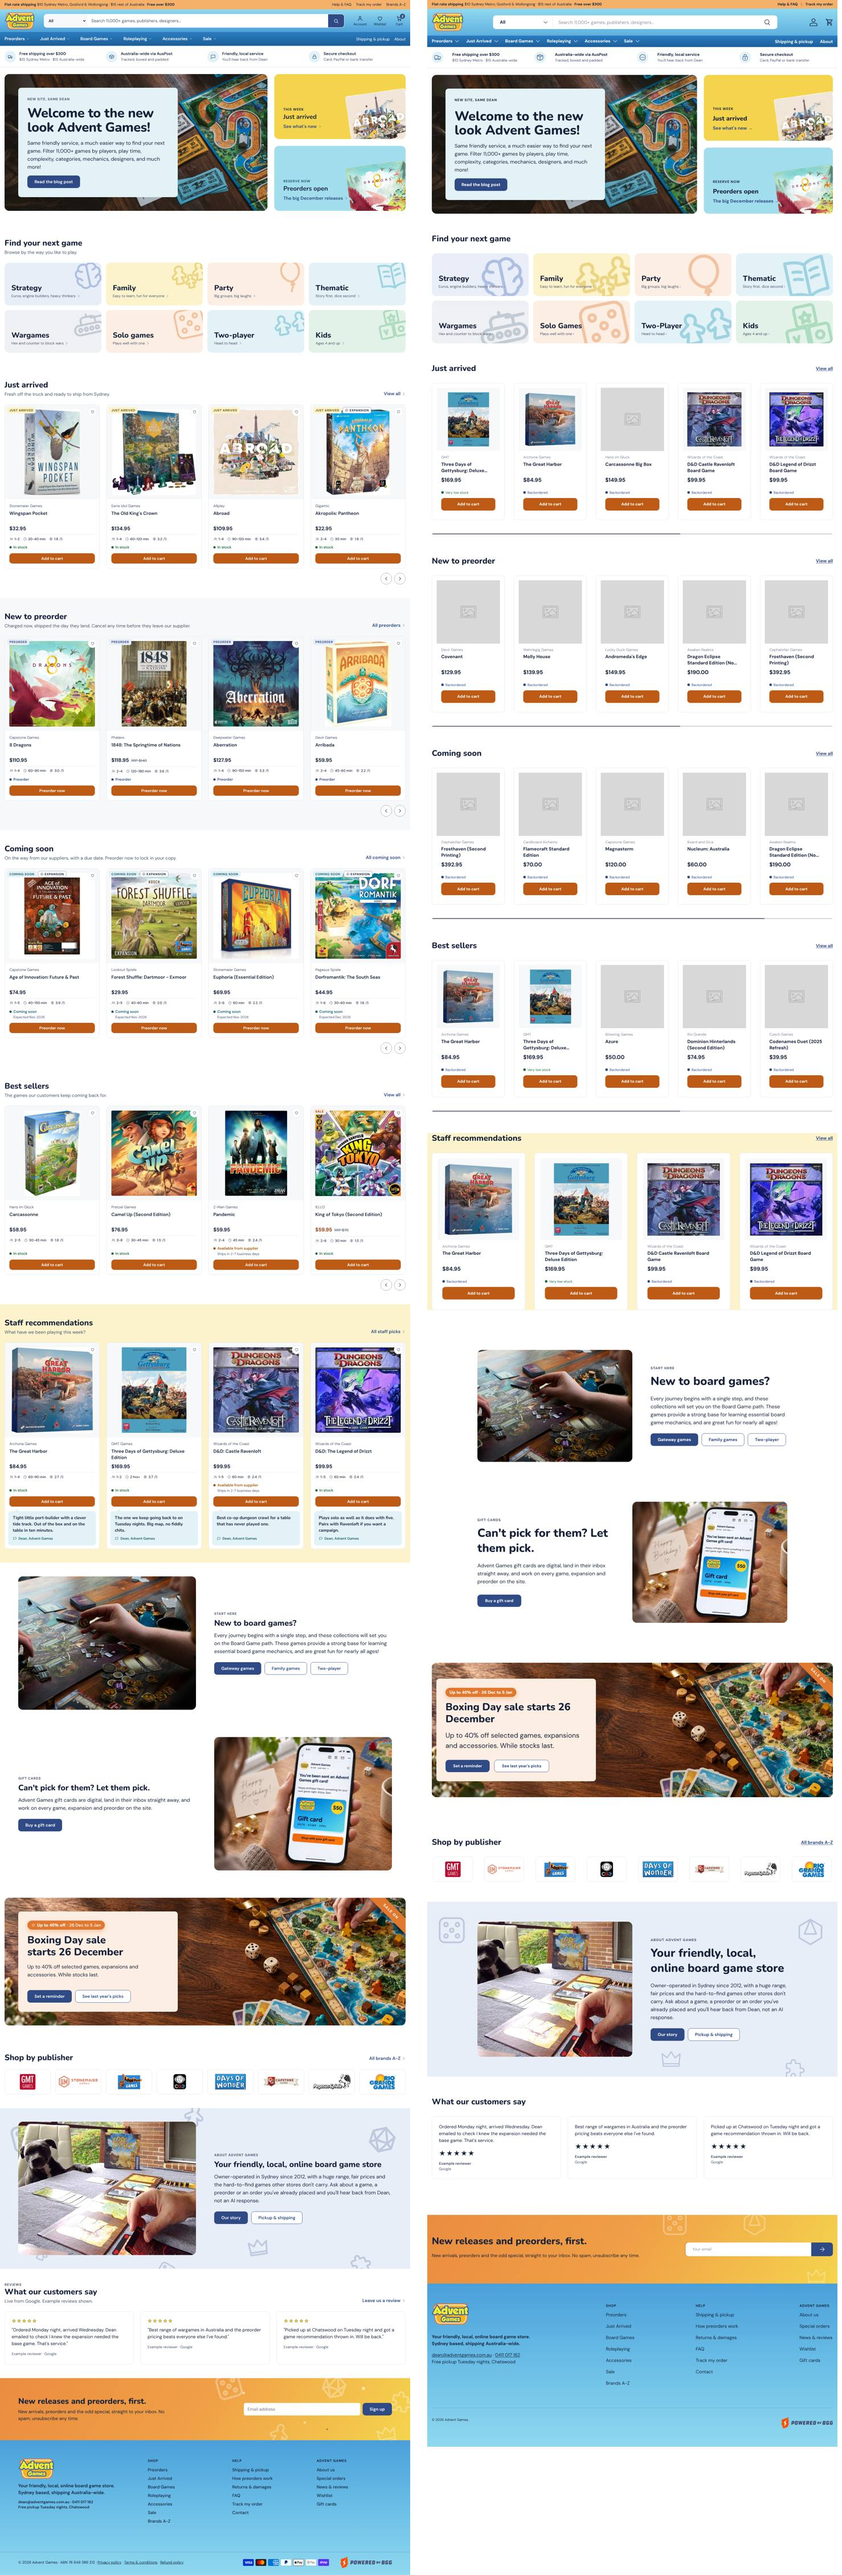
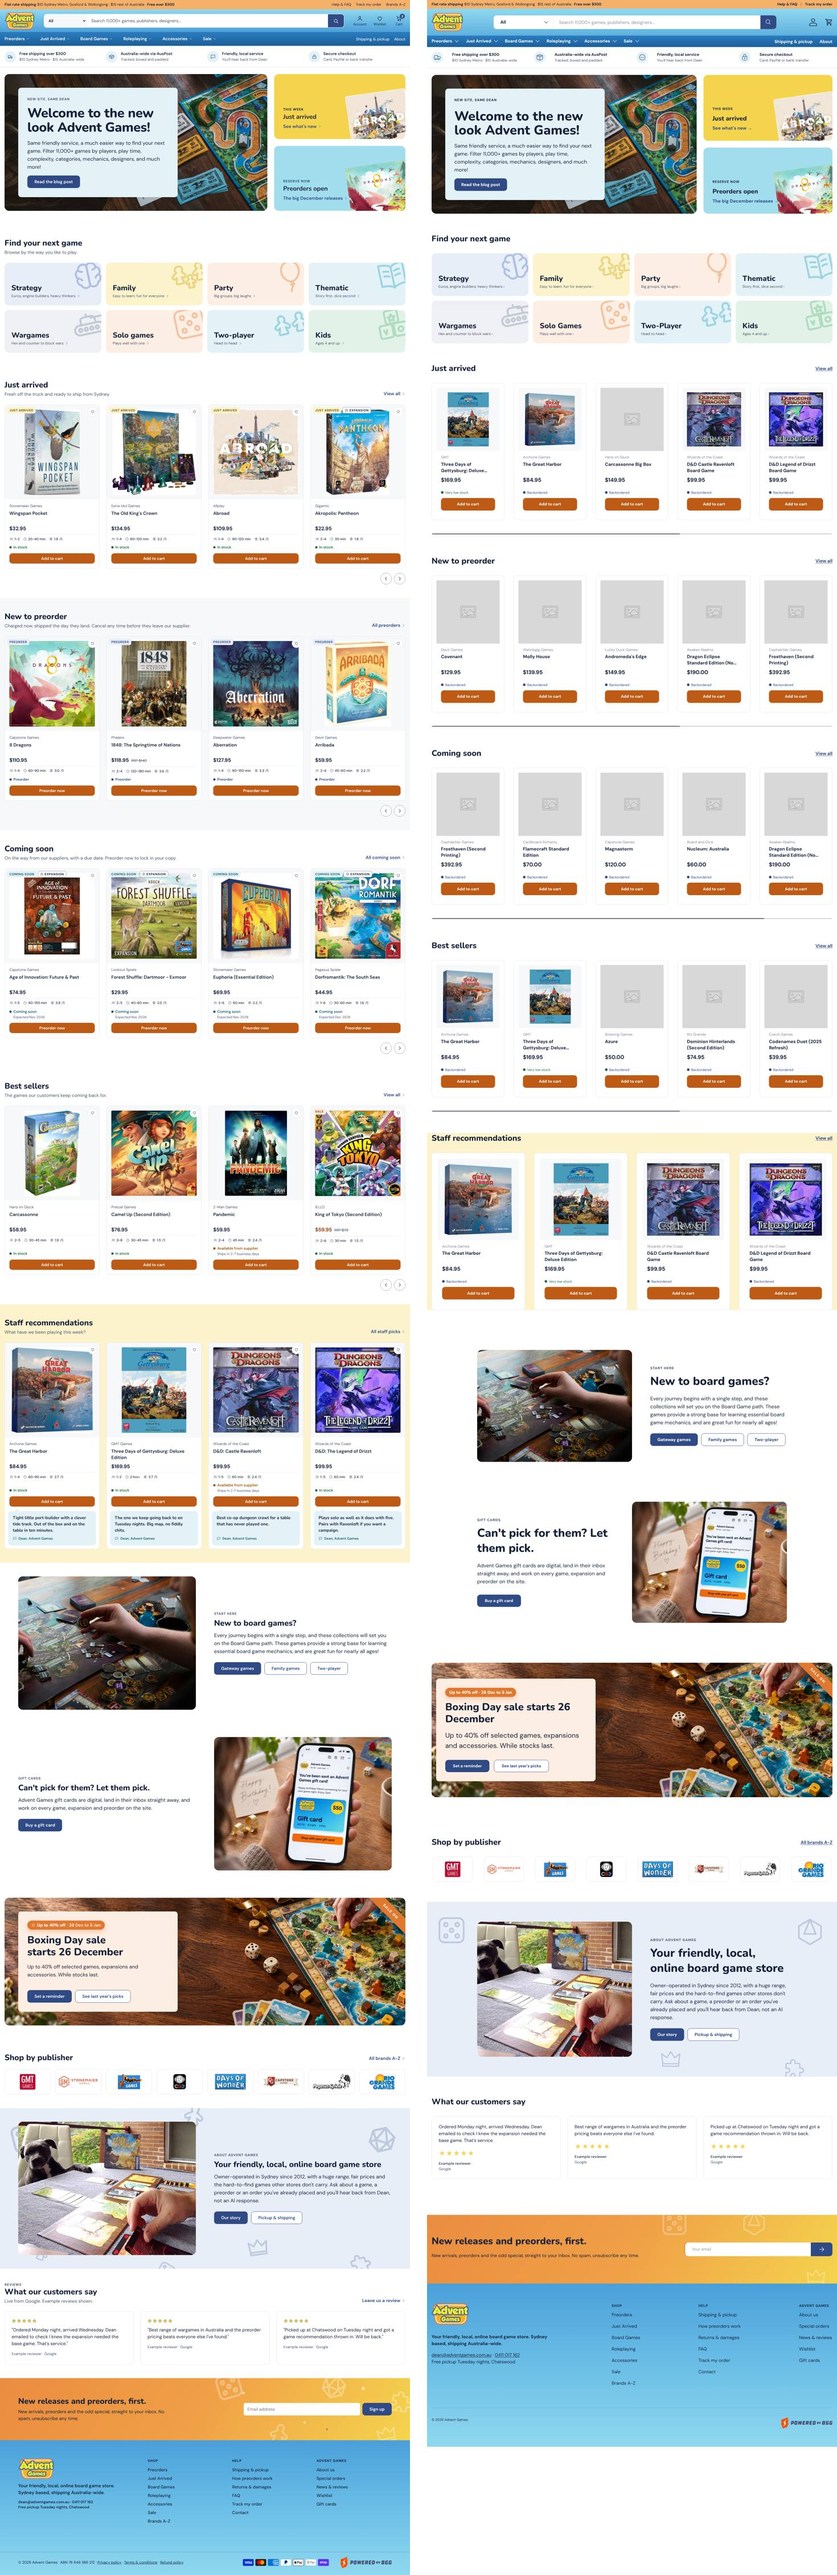
Home: refreshed QA screenshots, menu captures and status
Claude-Session: https://claude.ai/code/session_017qE6Lu8DesVwq157bCZo1j

diff --git a/handoff/BUILD-STATUS.md b/handoff/BUILD-STATUS.md
@@ -18,13 +18,12 @@ Preview: https://advent-games-017wrq2h.myshopify.com/?preview_theme_id=160180043
 - Menus: `main-menu` rebuilt from the design (no Brands item), new `header-secondary` and `footer-bgg`
 
 ## Visual QA
-Checked against the design at 1440px and 390px with Playwright (home page, Board Games and Preorders mega menus, cart drawer). Side-by-side screenshots: `handoff/qa/`.
+Checked against the design at 1440px and 390px with Playwright (home page, all mega menus and dropdowns, cart drawer). No sideways scroll at either width. Side-by-side screenshots: `handoff/qa/`.
 
 Remaining differences from Enterprise's native layout:
 - Section subs under headings are missing (no setting, see flags).
 - Product cards: no badges, wishlist heart or players/time/complexity row yet (these come from metafields and are product page work). Many demo products have no images.
 - Carousels show Enterprise's progress line instead of round arrow buttons.
-- Search button is an icon inside the field rather than a blue button.
 - Newsletter submit is an arrow button rather than "Sign up".
 - Hero text panel sits at the bottom of the large tile rather than vertically centred.
 
